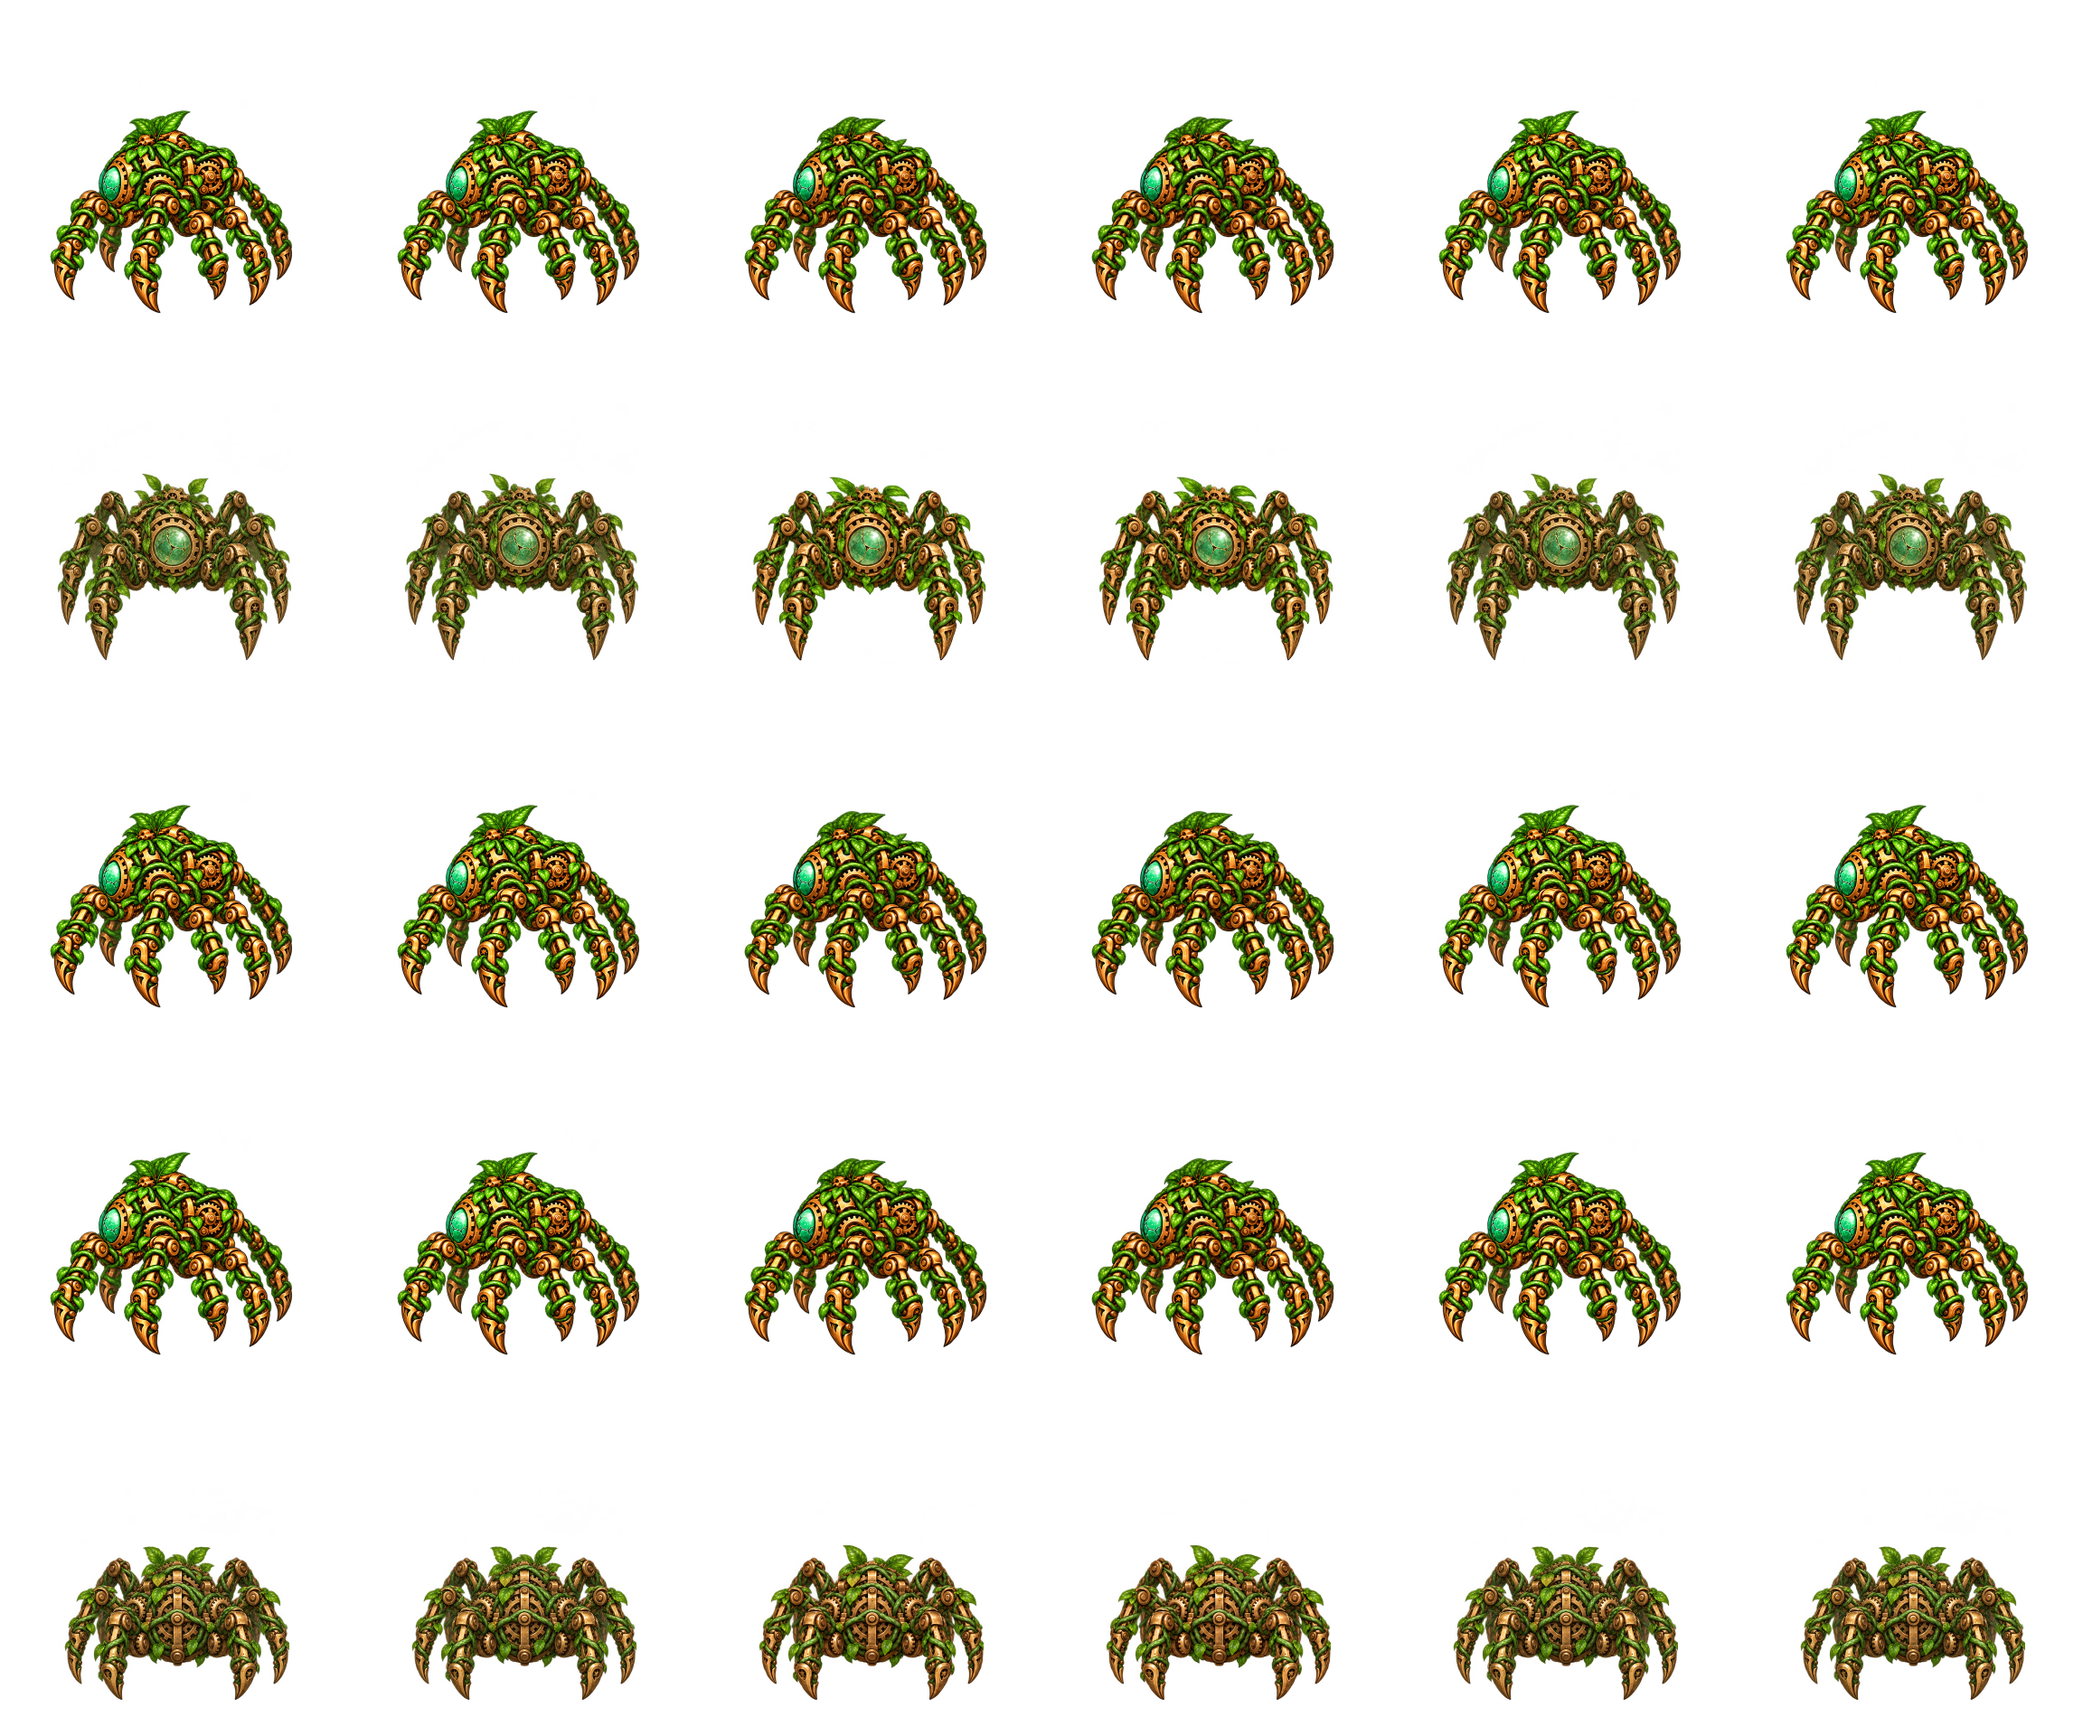
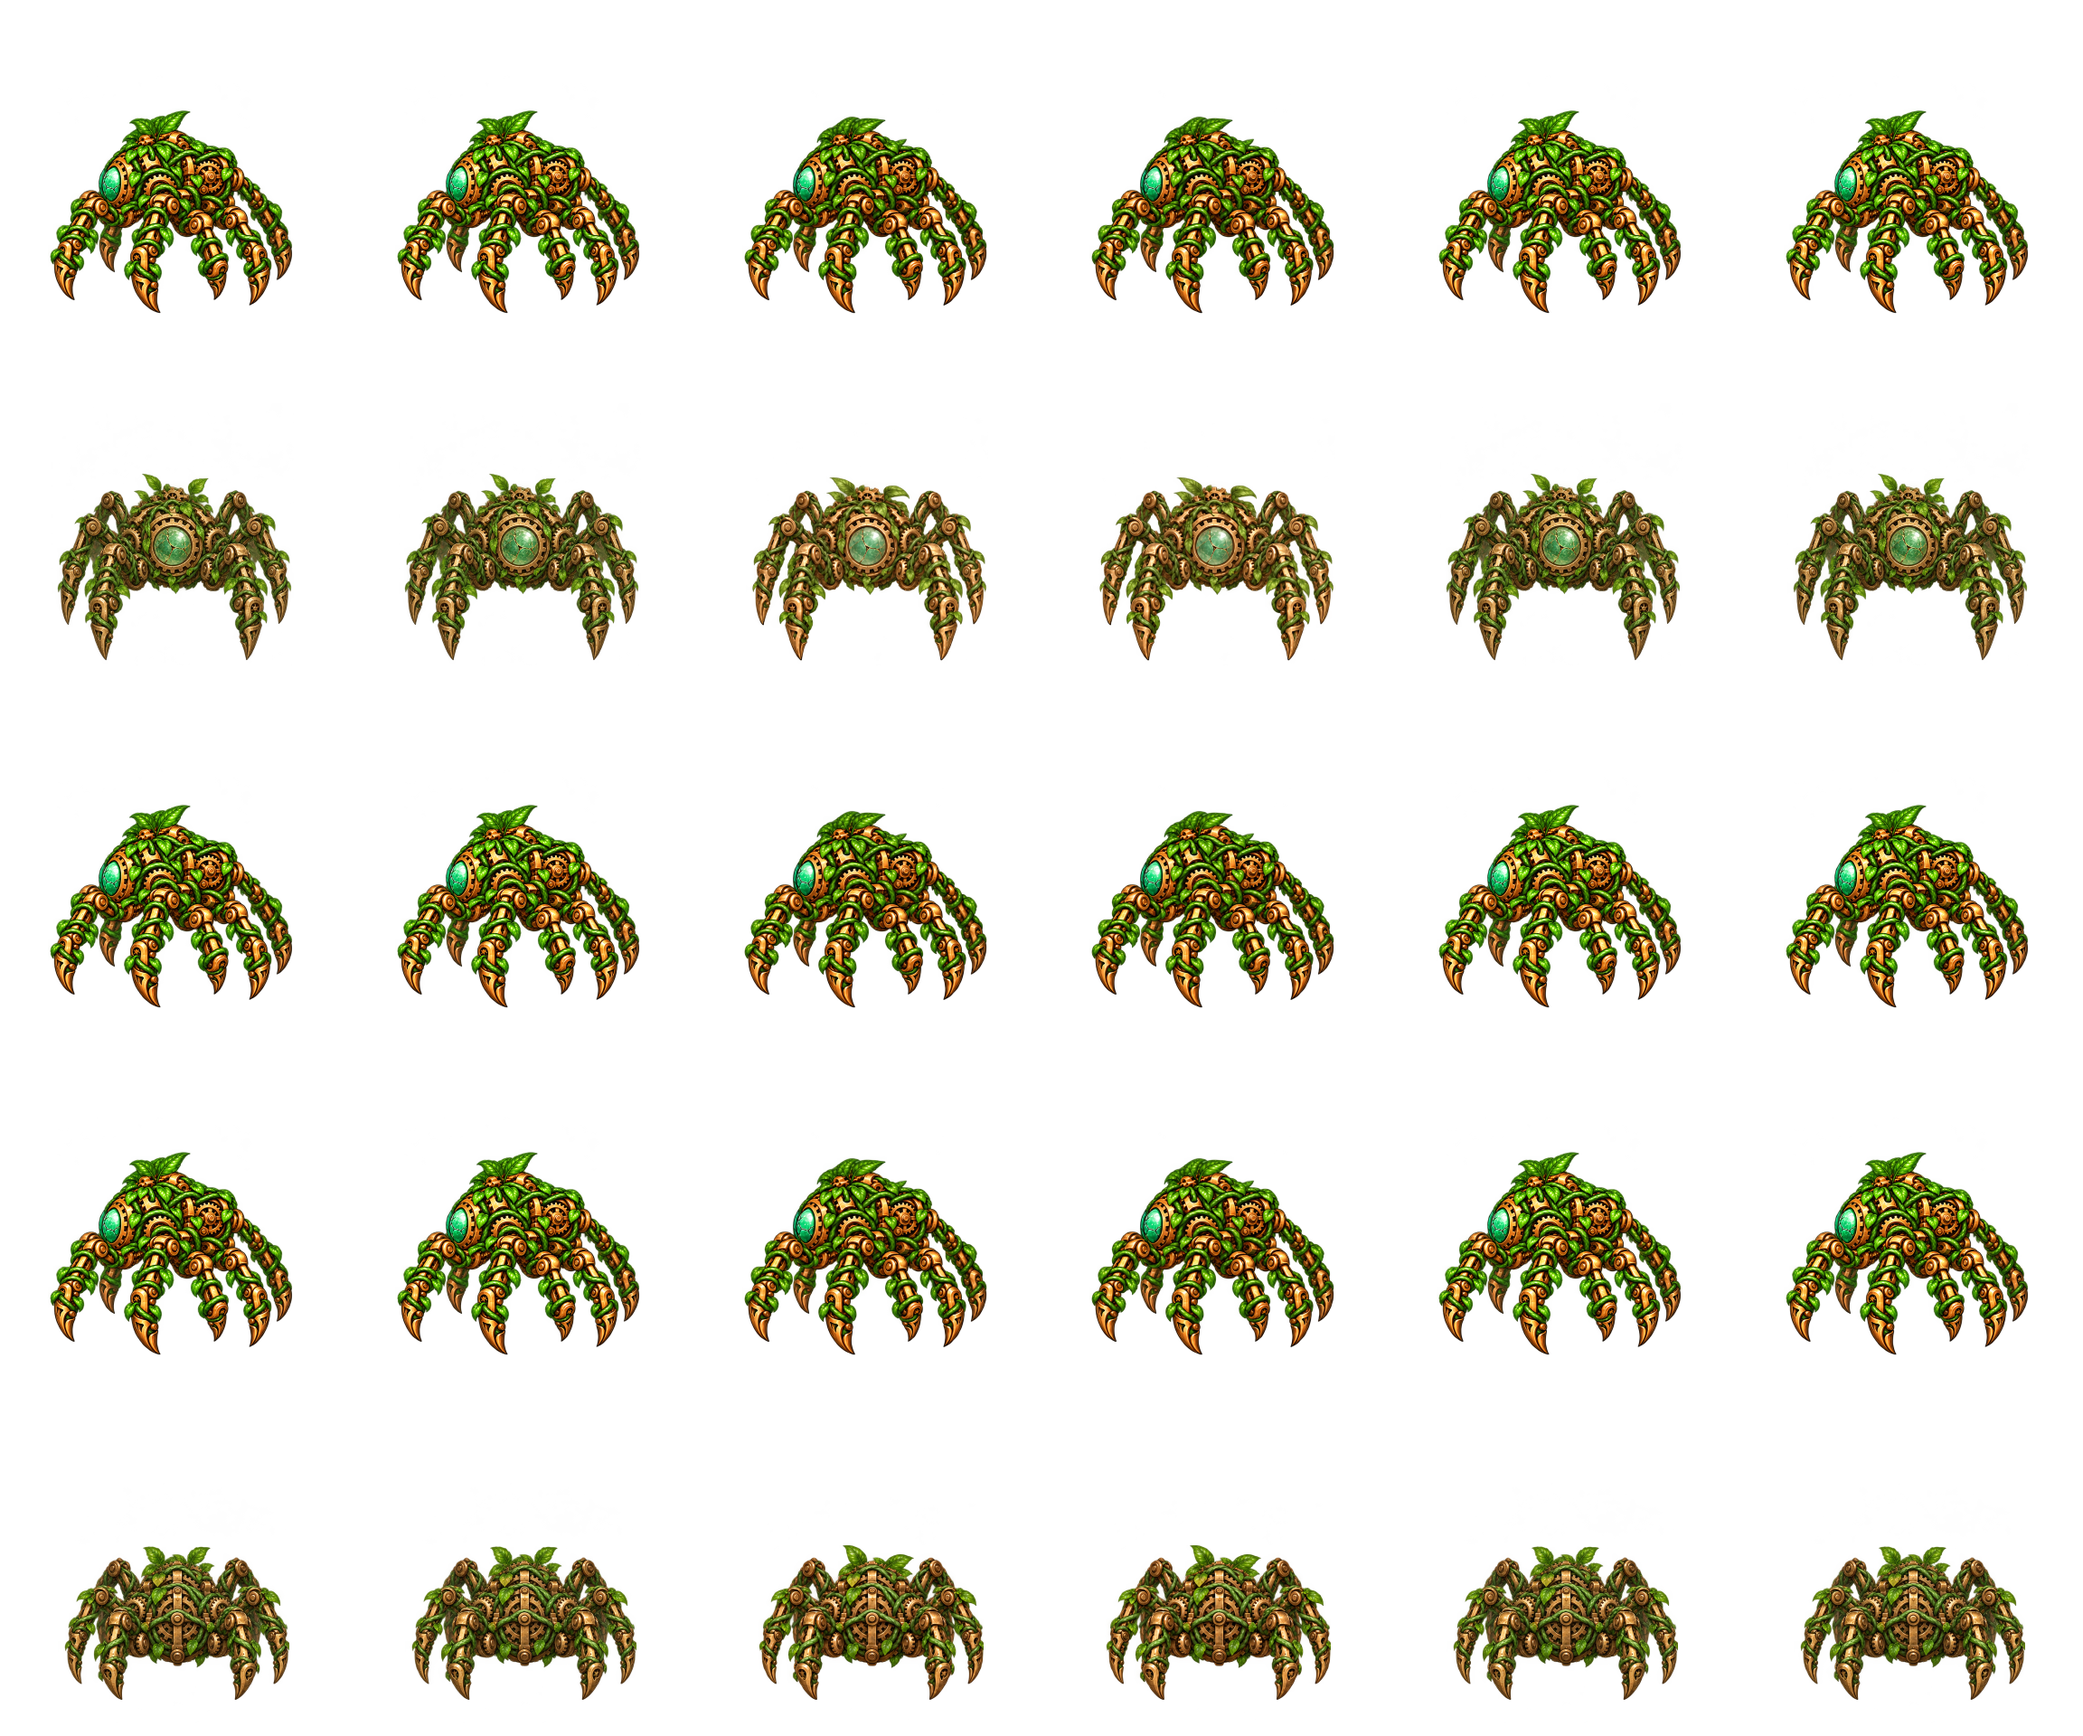
art: reduce Vinecrawler front idle saturation drift

Changed region(s): [[0.5312, 0.2812, 0.6562, 0.375], [0.3438, 0.2812, 0.4688, 0.375]]

diff --git a/art-source/monsters/mob_0014/actions-review.html b/art-source/monsters/mob_0014/actions-review.html
@@ -8,7 +8,7 @@ const im=new Image();im.src='./actions-left.png';await im.decode();
 const front=new Image();front.src='./actions-front.png';await front.decode();
 const back=new Image();back.src='./actions-back.png';await back.decode();
 const idleLeaves=new Image();idleLeaves.src='./idle-left-leaves.png';await idleLeaves.decode();
-const frontIdle=new Image();frontIdle.src='./idle-front-leaves.png';await frontIdle.decode();const backIdle=new Image();backIdle.src='./idle-back-leaves.png';await backIdle.decode();
+const frontIdle=new Image();frontIdle.src='./idle-front-leaves-v2.png';await frontIdle.decode();const backIdle=new Image();backIdle.src='./idle-back-leaves.png';await backIdle.decode();
 const seq={idle:[0,0,0,0,0,0],attack:[0,1,1,2,2,0],hit:[0,3,3,0,0,0],death:[0,4,4,5,5,5]};
 let clip='idle',f=0,paused=false,last=0;
 function draw(ctx,f,x,y,s){
